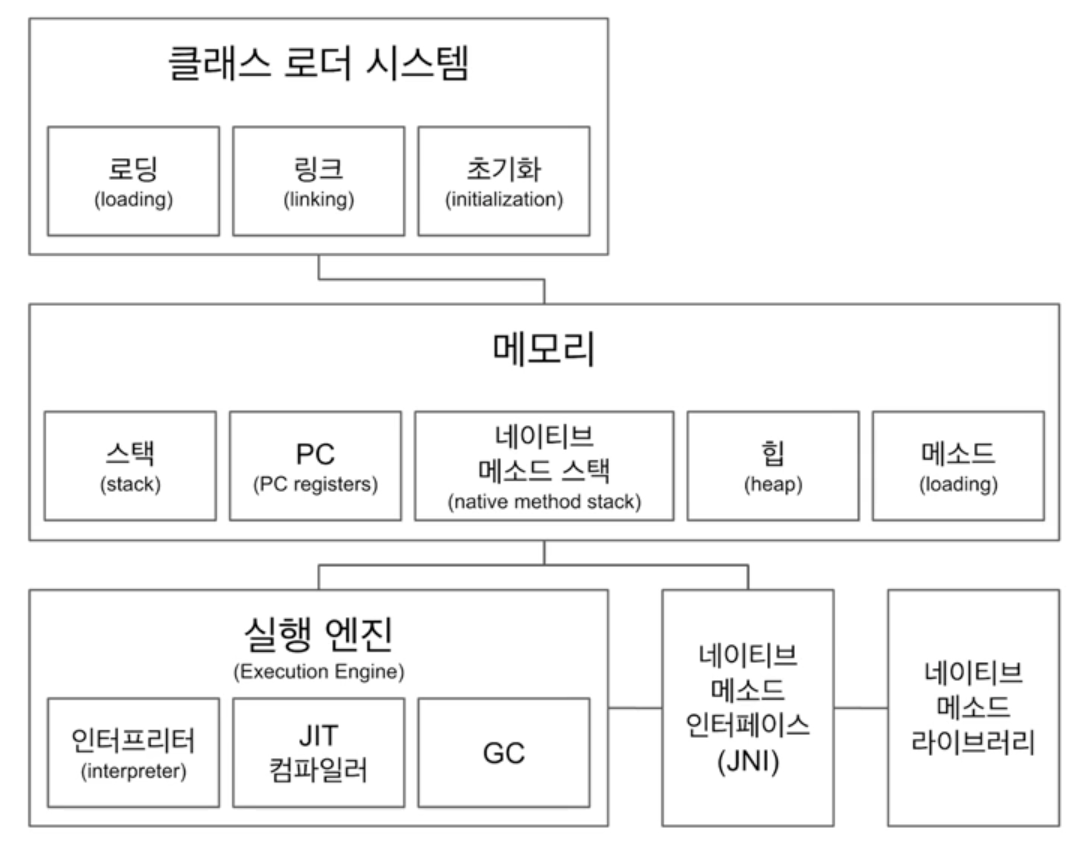
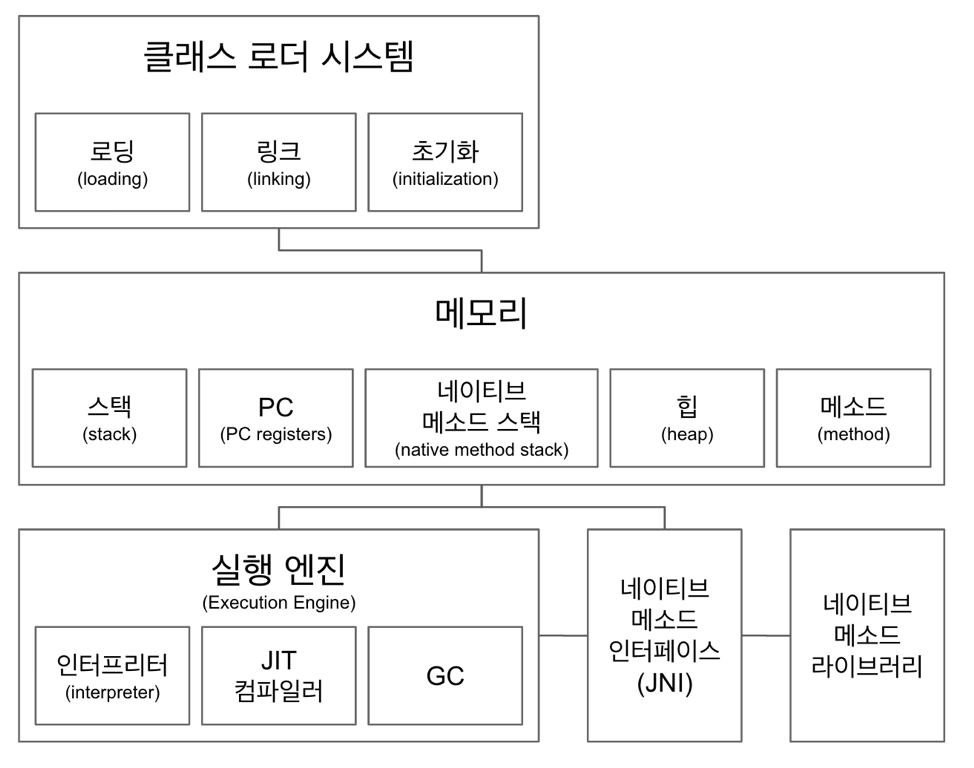
Write Java Post " 클래스 로더(Class Loader) "

Changed region(s): [[0.0, 0.0312, 0.9856, 1.0], [0.0308, 0.0, 0.5544, 0.0938], [0.4312, 0.875, 0.4928, 0.9062]]

diff --git a/_posts/2020-02-23-Java-Class-Loader.md b/_posts/2020-02-23-Java-Class-Loader.md
@@ -1,0 +1,210 @@
+---
+layout: post
+title:  " 클래스 로더(Class Loader) "
+categories: Java
+tags: Java
+author: goodGid
+---
+* content
+{:toc}
+
+> 이 글의 개념 및 코드들은 책을 읽으며 정리한 내용을 바탕으로 작성하였습니다.
+
+![](/assets/img/java/Java-Class-Loader_1.png)
+
+* 크게 보면 로딩 -> 링크 -> 초기화 순서로 진행된다.
+
+## 로딩 (Loading)
+
+* 클래스 로더가 **.class** 파일을 읽고 
+
+* 그 내용에 따라 적절한 바이너리 데이터를 만들고
+
+* [Method 영역]({{site.url}}/Java-JVM/#메서드-영역)에 저장한다.
+
+> Method 영역에 저장하는 데이터
+
+1. Type 정보(클래스, 인터페이스, Enum)
+
+2. 메소드와 변수
+
+3. FQCN(Fully Qualified Class Name)
+
+``` java
+package goodgid.gidhub;
+
+import org.springframework.boot.SpringApplication;
+import org.springframework.boot.autoconfigure.SpringBootApplication;
+
+@SpringBootApplication
+public class GidhubApplication {
+    public static void main(String[] args) {
+        // FQCN 사용
+        org.springframework.boot.SpringApplication.run(GidhubApplication.class, args);
+
+        // FQCN 사용 X
+        SpringApplication.run(GidhubApplication.class, args);
+    }
+}
+```
+
+
+
+
+
+
+
+<br>
+
+* 로딩이 끝나면
+
+* 해당 클래스 타입의 Class 객체를 생성하여
+
+* **힙 영역**에 저장한다.
+ 
+<br>
+
+### 로딩 순서
+
+* 3가지의 클래스 로더가 있다.
+
+1. Bootstrap
+
+2. Extension
+
+3. Application
+
+<br>
+
+* Bootstrap -> Extension -> Application 순서로 찾게 된다.
+
+* Bootstrap에 존재하는지 
+
+* 없다면 Extension에 존재하는지
+
+* 없다면 Application에 존재하는지
+
+* 일반적으로 99%는 Application에 존재한다.
+
+> Q. 만약 찾지못한다면?
+
+* **ClassNotFoundException** 발생하게 된다.
+
+
+### Example
+
+<br>
+
+> GidhubApplication
+
+``` java
+@SpringBootApplication
+public class GidhubApplication {
+    public static void main(String[] args) {
+        ClassLoader classLoader = GidhubApplication.class.getClassLoader();
+        System.out.println(classLoader.getParent().getParent());
+        System.out.println(classLoader.getParent());
+        System.out.println(classLoader);   
+    }
+}
+```
+
+> Output
+
+``` java
+classLoader.getParent().getParent() : null
+classLoader.getParent()             : sun.misc.Launcher$ExtClassLoader@31d3619b
+classLoader                         : sun.misc.Launcher$AppClassLoader@18b4aac2
+```
+
+* *classLoader.getParent().getParent()* 는 native로 되어있기 때문에
+
+* java 코드로는 확인이 불가능하다.
+
+
+
+
+
+## 링크 (Linking)
+
+* 링크 작업은 3단계로 이뤄진다.
+
+* Verify -> Prepare -> Resolve
+
+
+
+### Verify 
+
+* 혹시라도 바이트 코드를 수정했을 수 있기 때문에
+
+* **.class 파일** 형식이 유효한지 체크한다.
+
+
+
+### Prepare
+
+* 클래스 변수(static 변수)와 기본값에 필요한 **메모리**를 준비하는 과정이다.
+
+
+
+### Resolve
+
+* Optional이다.
+
+* 사용하는 환경에 따라 동작 유무가 정해진다.
+
+<br>
+
+* 심볼릭 메모리 레퍼런스를 
+
+* 메소드 영역에 있는 **실제 레퍼런스**로 교체한다.
+
+
+
+``` java
+public class GidhubApplication {
+    HelloGid helloGid = new HelloGid();
+
+    public static void main(String[] args) {
+        SpringApplication.run(GidhubApplication.class, args);
+    }
+} 
+```
+
+* HelloGid helloGid = new HelloGid()에서 
+
+* new HelloGid() 부분은
+
+* 실제 레퍼런스를 가리키진 않는다.
+
+* 그렇기 때문에 
+
+* 실제 힙에 들어있는 인스턴스를 가리키는 작업을 
+
+* Resolve 시점에 해주게 된다.
+
+
+
+
+
+## 초기화 (Initialization)
+
+* 링크에서 Prepare 단계에서 확보한 메모리 영역에
+
+* 클래스의 static 값들을 할당한다. 
+
+
+## Summary
+
+* Class Loader에 대해 간략하게 알아봤다.
+
+* Class Loader와 관련해서
+
+* [JVM의 구조]({{site.url}}/Java-JVM)에 대해서도 학습해보자.
+
+
+---
+
+## 참고
+
+* [스프링 웹 MVC](https://www.inflearn.com/course/%EC%9B%B9-mvc)

diff --git a/_posts/2020-02-23-Java-JVM.md b/_posts/2020-02-23-Java-JVM.md
@@ -14,7 +14,9 @@ author: goodGid
 
 ## 클래스 로더 시스템
 
-* **.class**에서 Byte Code를 읽고 메모리에 저장
+* **.class**에서 Byte Code를 읽고 메모리에 저장한다.
+
+* 자세한 개념은 [클래스 로더(Class Loader)]({{site.url}}/Java-Class-Loader) 글을 참고하자.
 
 ### 로딩
 
@@ -93,7 +95,7 @@ PC 레지스터이다.
 * 객체(=인스턴스)를 저장 및 공유한다.
 
 
-### 메모리 영역
+### 메서드 영역
 
 * 클래스 수준의 정보(클래스 이름, 부모 클래스 이름, 메소드, 변수)를 저장한다.
 
